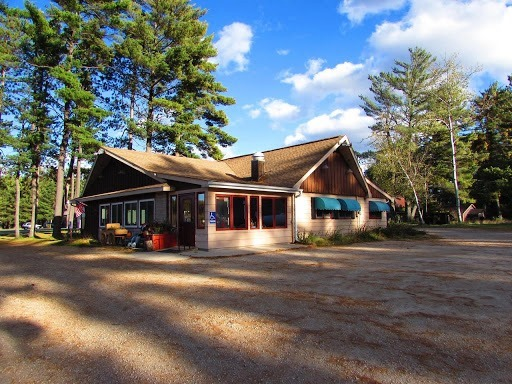
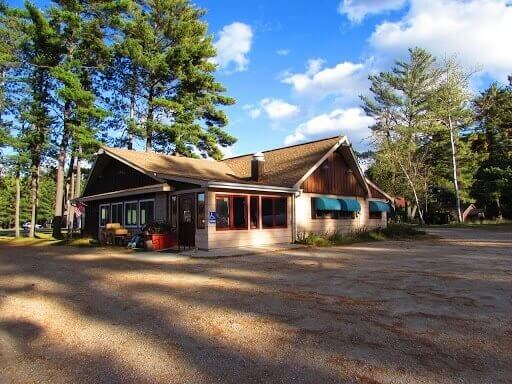
Added an Image Slideshow

diff --git a/index.html b/index.html
@@ -39,8 +39,18 @@
 				</div>
 			</div>
 			<div id="main" class="container">
-				<img src="img/Building.jpg" alt="Winters Family Restaurant" class="item" id="restaurantImage" />
-
+				<div class="slideshow-container item">
+					<img src="img/Building.jpg" alt="Winters Family Restaurant" class="slide fade" />
+					<img src="img/Staff.jpg" alt="Restaurant Staff" class="slide fade" />
+					<img src="img/Gyro.jpg" alt="A Gyro" class="slide fade" />
+					<img src="img/Ice-Cream.jpg" alt="Ice Cream Options at Winters Family Restaurant" class="slide fade" />
+					<img src="img/Breakfast.jpg" alt="Winters Family Restaurant" class="slide fade" />
+					<img src="img/Breakfast2.jpg" alt="Winters Family Restaurant" class="slide fade" />
+					<img src="img/Salad-Bar.jpg" alt="Winters Family Restaurant" class="slide fade" />
+					<img src="img/Sandwich-Fries.jpg" alt="Winters Family Restaurant" class="slide fade" />
+					<a class="prev" onclick="plusSlides(-1)">&#10094;</a>
+					<a class="next" onclick="plusSlides(1)">&#10095;</a>
+				</div>
 				<div
 					class="fb-page item"
 					id="facebookPage"
@@ -61,7 +71,7 @@
 					src="https://www.google.com/maps/embed?pb=!1m18!1m12!1m3!1d1394.8461448480261!2d-87.98659596529035!3d45.63691754004242!2m3!1f0!2f0!3f0!3m2!1i1024!2i768!4f13.1!3m3!1m2!1s0x0%3A0x2768bbdfe0f758ff!2sWinters%20Family%20Restaurant!5e0!3m2!1sen!2sus!4v1584398428516!5m2!1sen!2sus"
 					height="550"
 					frameborder="0"
-					style="border:0;"
+					style="border: 0;"
 					allowfullscreen=""
 					aria-hidden="false"
 					tabindex="0"
@@ -72,5 +82,6 @@
 		</div>
 		<div id="fb-root"></div>
 		<script async defer crossorigin="anonymous" src="https://connect.facebook.net/en_US/sdk.js#xfbml=1&version=v6.0"></script>
+		<script src="js/scripts.js"></script>
 	</body>
 </html>

diff --git a/styles/styles.css b/styles/styles.css
@@ -5,6 +5,7 @@
 
 #page {
 	background-image: url(../img/wood-paneling.jpg);
+	background-attachment: fixed;
 }
 
 #sidebar {
@@ -96,9 +97,63 @@
 	}
 	.item {
 		margin: 50px 10px;
-	}
-	#restaurantImage,
-	#googleMap {
 		max-width: 90%;
 	}
 }
+
+/* this is for the slideshow */
+.slideshow-container {
+	position: relative;
+}
+.slide {
+	display: none;
+	width: 100%;
+}
+.prev,
+.next {
+	cursor: pointer;
+	position: absolute;
+	width: auto;
+	padding: 16px;
+	color: white;
+	font-weight: bold;
+	font-size: 18px;
+	transition: 0.6s ease;
+	border-radius: 0 3px 3px 0;
+	user-select: none;
+	top: calc(50% - 28px);
+	background-color: rgba(0, 0, 0, 0.4);
+}
+.next {
+	right: 0;
+	border-radius: 3px 0 0 3px;
+}
+.prev:hover,
+.next:hover {
+	background-color: rgba(0, 0, 0, 0.8);
+}
+.fade {
+	-webkit-animation-name: fade;
+	-webkit-animation-duration: 1s;
+	animation-name: fade;
+	animation-duration: 1s;
+}
+
+@-webkit-keyframes fade {
+	from {
+		opacity: 0.4;
+	}
+	to {
+		opacity: 1;
+	}
+}
+
+@keyframes fade {
+	from {
+		opacity: 0.4;
+	}
+	to {
+		opacity: 1;
+	}
+}
+/* ^^ this is for the slideshow ^^ */

diff --git a/js/scripts.js b/js/scripts.js
@@ -1,0 +1,33 @@
+let slideIndex = 1;
+let timer;
+
+showSlides(slideIndex);
+timerSlides();
+
+function plusSlides(n) {
+	clearTimeout(timer);
+	showSlides((slideIndex += n));
+}
+
+function currentSlide(n) {
+	clearTimeout(timer);
+	showSlides((slideIndex = n));
+}
+
+function showSlides(n) {
+	var i;
+	var slides = document.getElementsByClassName('slide');
+	if (n > slides.length) slideIndex = 1;
+	if (n < 1) slideIndex = slides.length;
+	for (i = 0; i < slides.length; i++) {
+		slides[i].style.display = 'none';
+	}
+	slides[slideIndex - 1].style.display = 'block';
+}
+
+function timerSlides() {
+	timer = setTimeout(() => {
+		plusSlides(1);
+		timerSlides();
+	}, 5000);
+}
